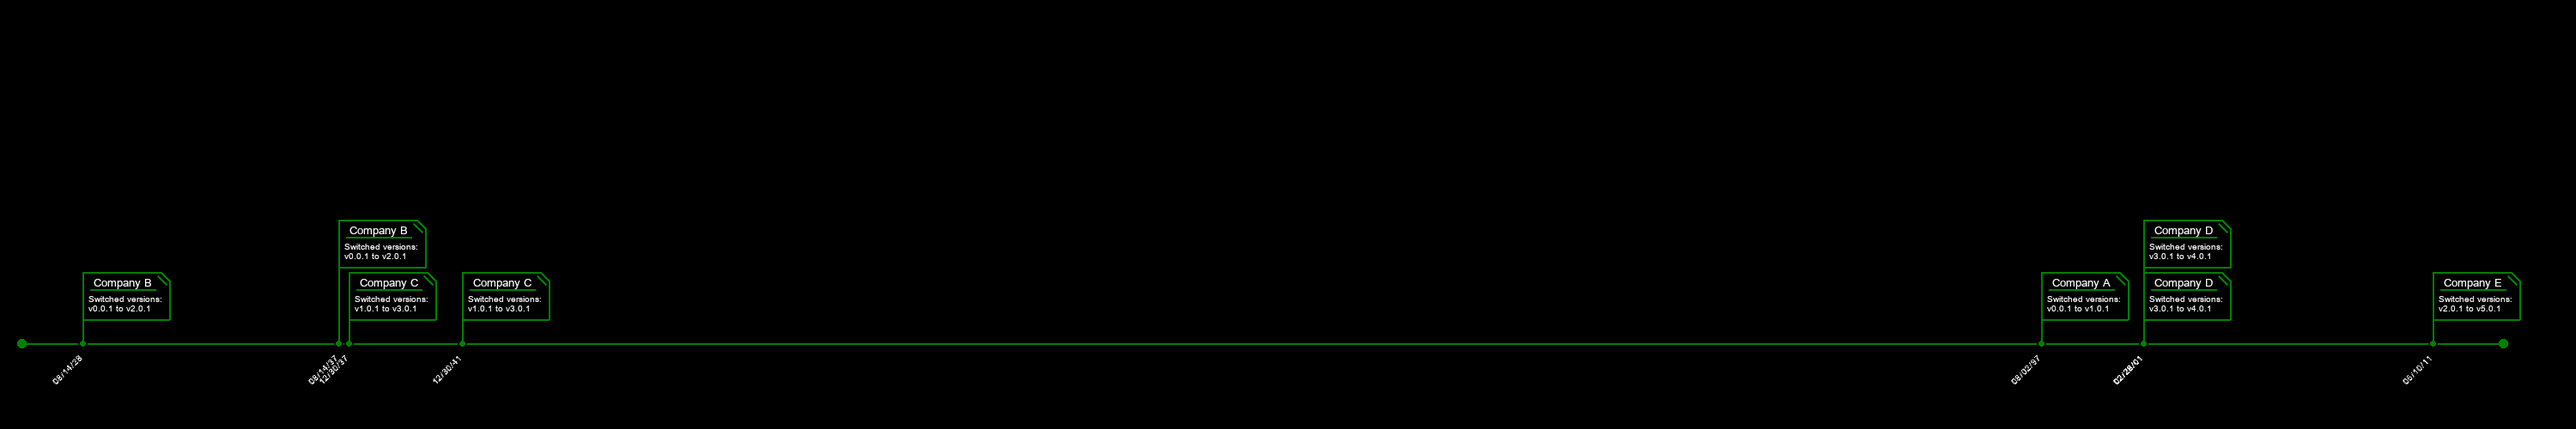
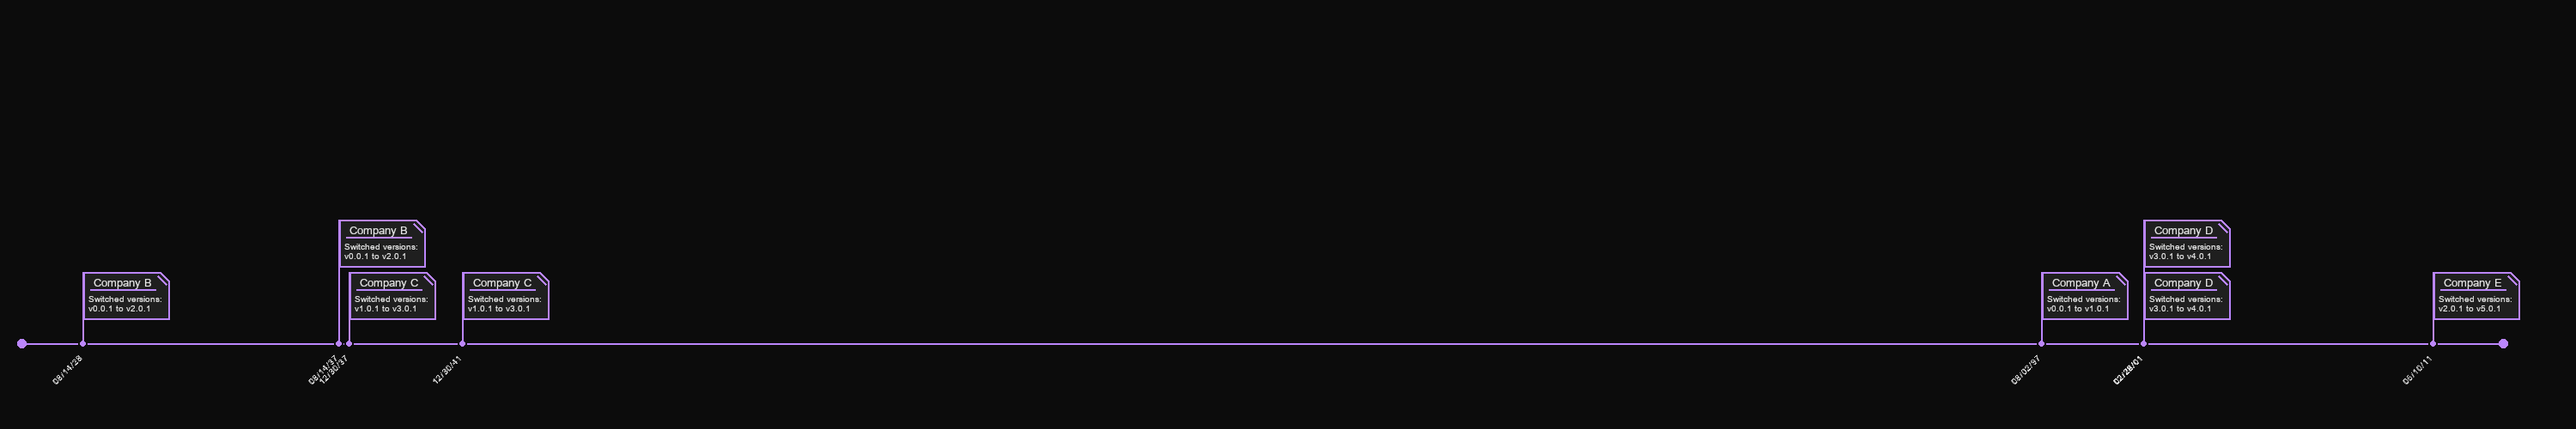
modified the polygon function to make the drawing function a lot simpler at the cost of demanding more complexity from the drawing context. Mixed the colors up to be a bit more palatable in the example DrawingContexts of both pillow and tkinter.

diff --git a/TimeLinePlot.py b/TimeLinePlot.py
@@ -18,7 +18,7 @@ class AbstractDrawingContext:   # quack quack
         raise NotImplementedError
     def draw_rect(self, x0, y0, x1, y1, color):
         raise NotImplementedError
-    def draw_polygon(self, color, *points):
+    def draw_polygon(self, color, border_color, border_width, *points):
         raise NotImplementedError
     def clear(self):
         raise NotImplementedError
@@ -119,6 +119,8 @@ class TimeLinePlot:
 
             context.draw_polygon(
                 self.entry_card_background,
+                self.entry_frame_color,
+                entry_frame_border_width,
                 (x_pos, card_y_pos),
                 (x_pos + entry_width - entry_frame_corner_size, card_y_pos),
                 (x_pos + entry_width, card_y_pos + entry_frame_corner_size),
@@ -127,33 +129,6 @@ class TimeLinePlot:
             )
             context.draw_line(x_pos, y_pos, x_pos, card_y_pos, self.entry_frame_color)
 
-            context.draw_line(
-                x_pos, card_y_pos,
-                x_pos+entry_width - entry_frame_corner_size,
-                card_y_pos,
-                self.entry_frame_color
-            )
-            context.draw_line(
-                x_pos+entry_width - entry_frame_corner_size,
-                card_y_pos,
-                x_pos+entry_width,
-                card_y_pos+entry_frame_corner_size,
-                self.entry_frame_color
-            )
-            context.draw_line(
-                x_pos+entry_width,
-                card_y_pos+entry_frame_corner_size,
-                x_pos+entry_width,
-                card_y_pos+entry_height,
-                self.entry_frame_color
-            )
-            context.draw_line(
-                x_pos,
-                card_y_pos+entry_height,
-                x_pos+entry_width,
-                card_y_pos+entry_height,
-                self.entry_frame_color
-            )
             context.draw_line(
                 x_pos+entry_width - entry_frame_corner_size - entry_frame_border_width*2,
                 card_y_pos + entry_frame_border_width*2,

diff --git a/PillowDrawingContext.py b/PillowDrawingContext.py
@@ -4,11 +4,9 @@ from TimeLinePlot import AbstractDrawingContext, TimeLinePlot
 
 class PillowDrawingContext(AbstractDrawingContext):
 
-    def draw_polygon(self, color, *points):
-        self.draw.polygon(list(points), fill=color)
-
     def save(self):
         self.image.save('plot.png')
+
     def draw_text(self, x, y, text, font, color, rotation=0, anchor=''):
         if isinstance(font, str):
             # 1.5 size seems to match up with tkinter afaict
@@ -40,6 +38,9 @@ class PillowDrawingContext(AbstractDrawingContext):
         elif 'e' in anchor:
             x -= image_size[0]/2
         self.image.paste(text_image, (int(x), int(y)), text_image)
+
+    def draw_polygon(self, color, border_color=None, border_width=0, *points):
+        self.draw.polygon(list(points), fill=color, outline=border_color, width=border_width)
 
     def get_width(self):
         return self.size[0]
@@ -82,4 +83,11 @@ if __name__ == '__main__':
         {'time': '2001-02-28T10:01:00', 'message': 'Switched versions:\nv3.0.1 to v4.0.1', 'title': 'Company D'},
         {'time': '2011-05-10T20:58:00', 'message': 'Switched versions:\nv2.0.1 to v5.0.1', 'title': 'Company E'},
     ]
-    TimeLinePlot(data=test_data.copy()).draw(PillowDrawingContext()).save()
+    TimeLinePlot(
+        data=test_data.copy(),
+        background_color='#0c0c0c',
+        time_line_color='#bb86fc',
+        entry_frame_color='#bb86fc',
+        entry_text_color='#e5e5e5',
+        entry_card_background='#1f1f1f'
+    ).draw(PillowDrawingContext()).save()

diff --git a/TkinterDrawingContext.py b/TkinterDrawingContext.py
@@ -42,8 +42,8 @@ class TkinterWindowDrawingContext(AbstractDrawingContext, tkinter.Tk):
         self.time_line_canvas_width = time_line_width
         self.time_line_canvas_height = time_line_height
 
-    def draw_polygon(self, color, *points):
-        self.canvas.create_polygon(points, fill=color)
+    def draw_polygon(self, color, border_color=None, border_width=0, *points):
+        self.canvas.create_polygon(points, outline=border_color, width=border_width, fill=color)
 
     def clear(self):
         self.canvas.delete(tkinter.ALL)
@@ -90,4 +90,5 @@ if __name__ == '__main__':
         time_line_color='#bb86fc',
         entry_frame_color='#bb86fc',
         entry_text_color='#e5e5e5',
+        entry_card_background='#1f1f1f'
     ).draw(TkinterWindowDrawingContext(1000, 400, title='companies switching versions', time_line_width=3000)).mainloop()
